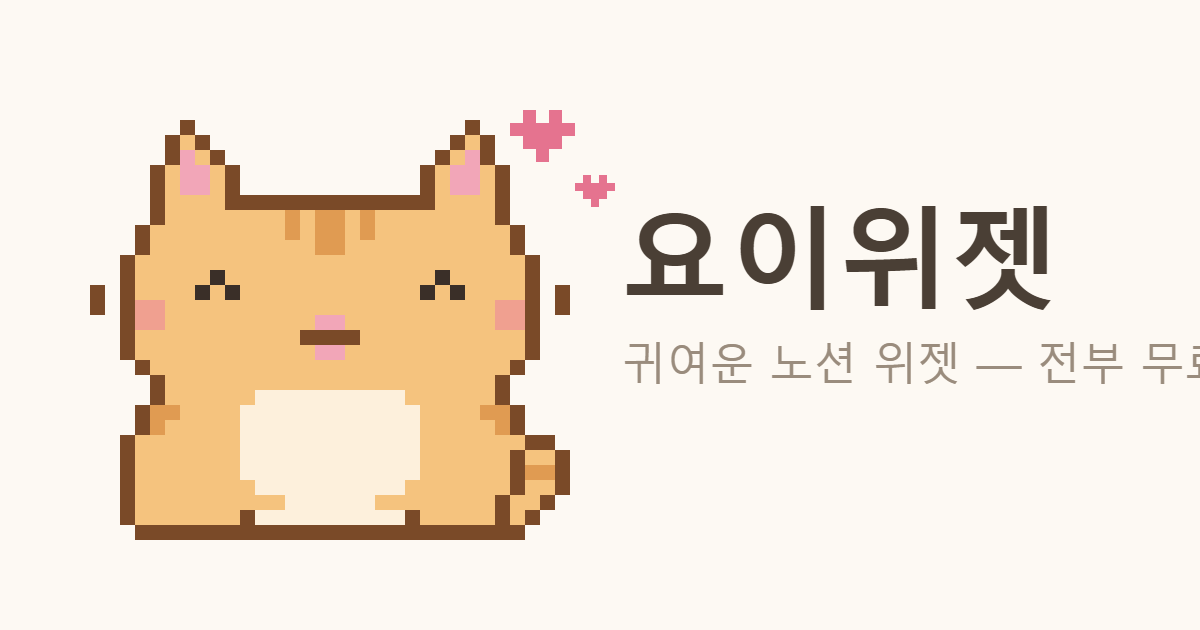
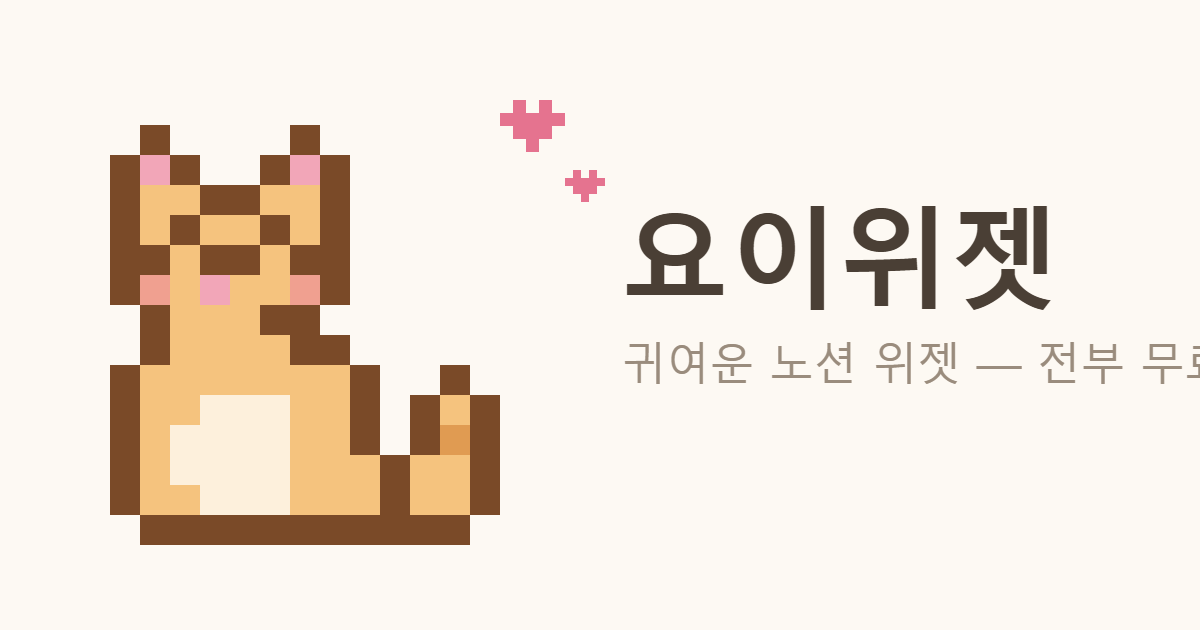
기본 캐릭터를 16x16으로 확정 (32x32는 px=32 옵션)
- 사용자 결정: 미니멀 16x16 도트 감성을 기본으로, 목걸이 없이
- 엔진: px 파라미터 기본값 뒤집기 (기본 16, px=32로 상세 버전)
- 랜딩 히어로 스케일 조정, favicon.svg 16px 기준 재생성, og.png 갱신

Changed region(s): [[0.0617, 0.1508, 0.4933, 0.8746], [0.4625, 0.2714, 0.5242, 0.3317]]

diff --git a/engine.js b/engine.js
@@ -1,9 +1,9 @@
-/* 요이위젯 character engine — 32×32 치즈 줄무늬 고양이 "요이" (+16×16 미니)
+/* 요이위젯 character engine — 16×16 치즈 줄무늬 고양이 "요이" (+32×32 상세 버전)
  * 픽셀 캐릭터 렌더링 + 애니메이션 상태머신. 모든 위젯이 이 엔진을 공유한다.
  * URL 파라미터:
  *   skin  = cheese | cream | gray | tux (기본 cheese)
  *   c     = 몸통 색 커스텀 (hex, # 없이) — 줄무늬는 자동으로 어두운 톤 파생
- *   px    = 16 이면 미니 16×16 스프라이트 (기본 32)
+ *   px    = 32 이면 상세 32×32 스프라이트 (기본 16)
  *   bg    = 배경 색 (hex 또는 생략=투명)
  *   s     = 픽셀 스케일 1~12 (생략=자동)
  *   theme = light | dark (생략=OS 설정 따름 — 노션 인앱 테마는 감지 불가라 명시 지정용)
@@ -229,7 +229,7 @@ function effectiveTheme() {
   return matchMedia("(prefers-color-scheme: dark)").matches ? "dark" : "light";
 }
 
-function isMini() { return qs("px", "") === "16"; }
+function isMini() { return qs("px", "16") !== "32"; }
 
 // s 파라미터(1~12)가 있으면 고정, 없으면 뷰포트 기준 자동.
 // reserve = 캐릭터 아래 텍스트/버튼이 차지하는 높이(px)

diff --git a/index.html b/index.html
@@ -190,7 +190,7 @@ footer { text-align: center; color: var(--sub); font-size: 13px; margin-top: 48p
 </main>
 <script type="module">
 import { Pet } from "./engine.js";
-new Pet(document.getElementById("hero-cv"), { scale: 5 });
+new Pet(document.getElementById("hero-cv"), { scale: 10 });
 </script>
 <script>
 // 스킨 프리셋: [skin 파라미터, 대표색]

diff --git a/README.md b/README.md
@@ -4,7 +4,7 @@
 
 ## 구조
 
-- `engine.js` — 공통 캐릭터 엔진 (32×32 픽셀 고양이 "요이", 치즈 줄무늬 기본 + 스킨 4종, 캔버스 렌더링, 상태머신)
+- `engine.js` — 공통 캐릭터 엔진 (16×16 픽셀 고양이 "요이" 기본 + 32×32 상세 버전, 치즈 줄무늬 + 스킨 4종, 캔버스 렌더링, 상태머신)
 - `tools/gen-assets.mjs` — 스프라이트 검증 시트 + favicon.svg 재생성 (`npm run assets`)
 - `pet.html` / `dday.html` / `timer.html` — 위젯 (엔진 위의 얇은 껍데기)
 - `index.html` — 랜딩 + 임베드 URL 생성기
@@ -15,7 +15,7 @@
 | 파라미터 | 의미 | 예 |
 |---|---|---|
 | `skin` | 스킨: `cheese`(기본)·`cream`·`gray`·`tux` | `skin=tux` |
-| `px` | `16` = 미니 16×16 스프라이트 (기본 32) | `px=16` |
+| `px` | `32` = 상세 32×32 스프라이트 (기본 16) | `px=32` |
 | `c` | 몸통 색 커스텀 (hex, # 없이, 줄무늬 자동 파생) | `c=f2c4cf` |
 | `bg` | 배경 색 (생략 = 투명) | `bg=ffffff` |
 | `s` | 픽셀 스케일 1~12 (생략 = 자동) | `s=4` |
